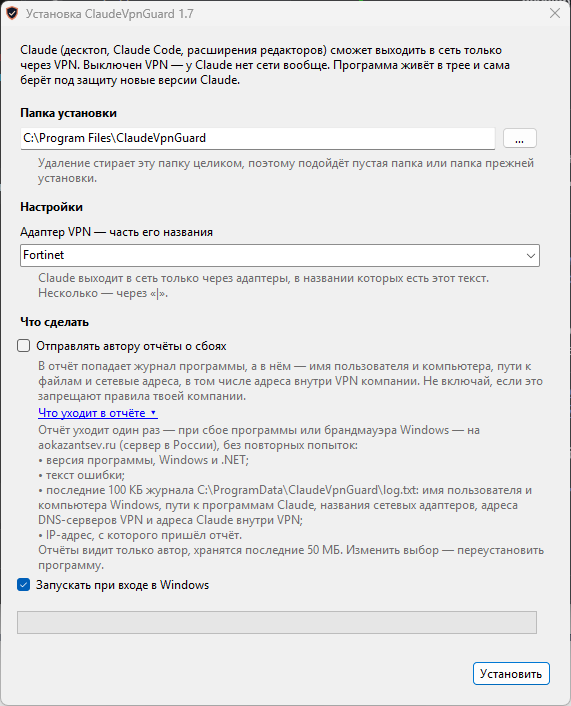
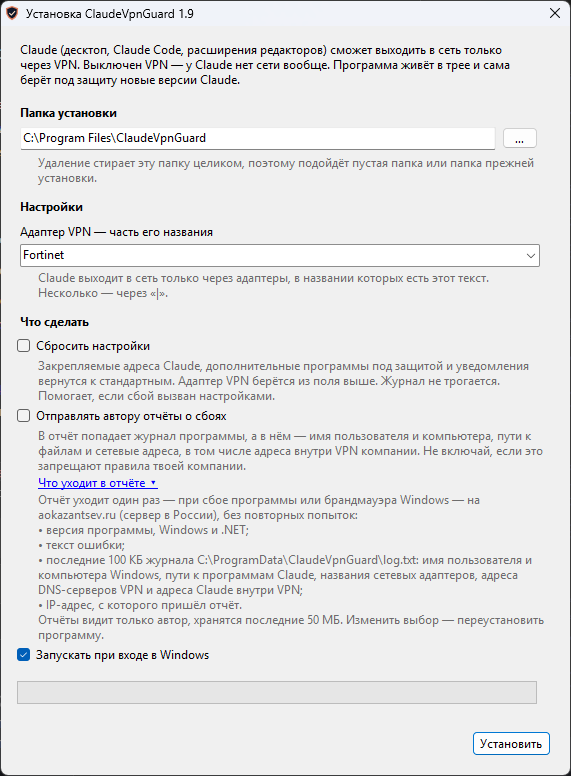
Проверка обновлений из трея с загрузкой установщика, галочка «Сбросить настройки» в установщике, версия 1.9

diff --git a/src/UpdateForm.cs b/src/UpdateForm.cs
@@ -1,0 +1,143 @@
+using System;
+using System.Diagnostics;
+using System.Drawing;
+using System.Threading;
+using System.Windows.Forms;
+
+namespace ClaudeVpnGuard
+{
+    internal sealed class UpdateForm : Form
+    {
+        private const int ContentWidth = 420;
+
+        private static UpdateForm openForm;
+
+        private readonly Label status = new Label();
+        private readonly TextBox pathBox = new TextBox();
+        private readonly FlowLayoutPanel fileButtons = new FlowLayoutPanel();
+        private string downloadedPath;
+
+        public static void ShowSingle()
+        {
+            if (openForm != null)
+            {
+                openForm.Activate();
+                return;
+            }
+            openForm = new UpdateForm();
+            openForm.FormClosed += (sender, e) => openForm = null;
+            openForm.Show();
+            openForm.Start();
+        }
+
+        private UpdateForm()
+        {
+            Text = "Обновление " + AppIdentity.Name;
+            FormBorderStyle = FormBorderStyle.FixedDialog;
+            MaximizeBox = false;
+            MinimizeBox = false;
+            StartPosition = FormStartPosition.CenterScreen;
+            AutoScaleMode = AutoScaleMode.Dpi;
+            Font = SystemFonts.MessageBoxFont;
+            AutoSize = true;
+            AutoSizeMode = AutoSizeMode.GrowAndShrink;
+            Icon = Icon.ExtractAssociatedIcon(Application.ExecutablePath);
+
+            var layout = new TableLayoutPanel { AutoSize = true, ColumnCount = 1, Padding = new Padding(16) };
+            Controls.Add(layout);
+
+            status.AutoSize = true;
+            status.MaximumSize = new Size(ContentWidth, 0);
+            status.Text = "Проверяю, есть ли версия новее " + AppIdentity.Version + "…";
+            layout.Controls.Add(status);
+
+            pathBox.ReadOnly = true;
+            pathBox.Width = ContentWidth;
+            pathBox.Margin = new Padding(3, 10, 3, 3);
+            pathBox.Visible = false;
+            layout.Controls.Add(pathBox);
+
+            fileButtons.AutoSize = true;
+            fileButtons.Visible = false;
+            fileButtons.Margin = new Padding(0, 6, 0, 0);
+            var openFolder = new Button { Text = "Открыть папку", AutoSize = true };
+            openFolder.Click += (sender, e) => ShowInExplorer(downloadedPath);
+            var copyPath = new Button { Text = "Скопировать путь", AutoSize = true };
+            copyPath.Click += (sender, e) => Clipboard.SetText(downloadedPath);
+            fileButtons.Controls.Add(openFolder);
+            fileButtons.Controls.Add(copyPath);
+            layout.Controls.Add(fileButtons);
+
+            var close = new Button { Text = "Закрыть", AutoSize = true, Anchor = AnchorStyles.Right, Margin = new Padding(3, 12, 3, 0) };
+            close.Click += (sender, e) => Close();
+            layout.Controls.Add(close);
+            CancelButton = close;
+        }
+
+        private void Start()
+        {
+            var worker = new Thread(Check) { IsBackground = true };
+            worker.Start();
+        }
+
+        private void Check()
+        {
+            try
+            {
+                UpdateRelease release = UpdateChecker.FetchLatest();
+                Version current = UpdateChecker.CurrentVersion;
+                AppLog.Append("update check: installed " + AppIdentity.Version + ", latest " + release.VersionText);
+                if (release.Version <= current)
+                {
+                    Report("Установлена последняя версия — " + AppIdentity.Version + ".", null);
+                    return;
+                }
+                Report("Есть версия " + release.VersionText + ", скачиваю установщик (" + (release.Size / 1024 / 1024.0).ToString("0.0") + " МБ)…", null);
+                string path = UpdateChecker.Download(release);
+                AppLog.Append("update downloaded: " + path);
+                Report("Скачана версия " + release.VersionText + ". Запусти установщик — он поставит её поверх текущей, настройки сохранятся. "
+                    + "Папка с установщиком открыта в Проводнике; если окно не появилось — кнопка «Открыть папку».", path);
+            }
+            catch (Exception error)
+            {
+                AppLog.Append("update check failed: " + error);
+                Report("Не удалось проверить обновление: " + error.Message
+                    + Environment.NewLine + "Последняя версия всегда есть на " + AppIdentity.GitHubUrl + "/releases/latest", null);
+            }
+        }
+
+        private void Report(string text, string path)
+        {
+            try
+            {
+                BeginInvoke(new Action(() => ShowResult(text, path)));
+            }
+            catch (InvalidOperationException)
+            {
+            }
+        }
+
+        private void ShowResult(string text, string path)
+        {
+            status.Text = text;
+            if (path == null) return;
+            downloadedPath = path;
+            pathBox.Text = path;
+            pathBox.Visible = true;
+            fileButtons.Visible = true;
+            ShowInExplorer(path);
+        }
+
+        private static void ShowInExplorer(string path)
+        {
+            try
+            {
+                Process.Start(new ProcessStartInfo("explorer.exe", "/select,\"" + path + "\"") { UseShellExecute = false });
+            }
+            catch (System.ComponentModel.Win32Exception error)
+            {
+                AppLog.Append("explorer failed: " + error.Message);
+            }
+        }
+    }
+}

diff --git a/src/UpdateChecker.cs b/src/UpdateChecker.cs
@@ -1,0 +1,106 @@
+using System;
+using System.Globalization;
+using System.IO;
+using System.Net;
+using System.Runtime.InteropServices;
+using System.Text;
+using System.Text.RegularExpressions;
+
+namespace ClaudeVpnGuard
+{
+    internal static class UpdateChecker
+    {
+        private const string GitHubPrefix = "https://github.com/";
+        private const string ApiPrefix = "https://api.github.com/repos/";
+        private const int RequestTimeoutMs = 15 * 1000;
+        private const int DownloadTimeoutMs = 120 * 1000;
+        private const int BufferSize = 81920;
+        private static readonly Guid DownloadsFolderId = new Guid("374DE290-123F-4565-9164-39C4925E467B");
+
+        public static Version CurrentVersion
+        {
+            get { return ParseVersion(AppIdentity.Version); }
+        }
+
+        public static Version ParseVersion(string text)
+        {
+            var parsed = new Version(text.Trim().TrimStart('v', 'V'));
+            return new Version(parsed.Major, parsed.Minor, Math.Max(0, parsed.Build), Math.Max(0, parsed.Revision));
+        }
+
+        public static UpdateRelease FetchLatest()
+        {
+            ServicePointManager.SecurityProtocol |= SecurityProtocolType.Tls12;
+            string url = ApiPrefix + AppIdentity.GitHubUrl.Substring(GitHubPrefix.Length) + "/releases/latest";
+            HttpWebRequest request = CreateRequest(url, RequestTimeoutMs);
+            request.Accept = "application/vnd.github+json";
+            string json;
+            using (var response = (HttpWebResponse)request.GetResponse())
+            using (var reader = new StreamReader(response.GetResponseStream(), Encoding.UTF8))
+            {
+                json = reader.ReadToEnd();
+            }
+            Match tag = Regex.Match(json, "\"tag_name\"\\s*:\\s*\"(v?[0-9][0-9.]*)\"");
+            if (!tag.Success) throw new InvalidDataException("в ответе GitHub нет номера версии");
+            string assetName = AppIdentity.Name + "Setup.exe";
+            Match asset = Regex.Match(json, "\"size\"\\s*:\\s*([0-9]+)[^{}]*?\"browser_download_url\"\\s*:\\s*\"([^\"]*/" + Regex.Escape(assetName) + ")\"");
+            if (!asset.Success) throw new InvalidDataException("в последнем релизе нет файла " + assetName);
+            return new UpdateRelease(tag.Groups[1].Value.TrimStart('v', 'V'), asset.Groups[2].Value,
+                long.Parse(asset.Groups[1].Value, CultureInfo.InvariantCulture));
+        }
+
+        public static string Download(UpdateRelease release)
+        {
+            string folder = DownloadsDirectory();
+            Directory.CreateDirectory(folder);
+            string target = Path.Combine(folder, AppIdentity.Name + "Setup-" + release.VersionText + ".exe");
+            string partial = target + ".part";
+            HttpWebRequest request = CreateRequest(release.DownloadUrl, DownloadTimeoutMs);
+            using (var response = (HttpWebResponse)request.GetResponse())
+            using (Stream source = response.GetResponseStream())
+            using (var output = new FileStream(partial, FileMode.Create, FileAccess.Write))
+            {
+                source.CopyTo(output, BufferSize);
+            }
+            if (release.Size > 0 && new FileInfo(partial).Length != release.Size)
+            {
+                File.Delete(partial);
+                throw new IOException("файл скачался не полностью");
+            }
+            if (File.Exists(target)) File.Delete(target);
+            File.Move(partial, target);
+            return target;
+        }
+
+        private static HttpWebRequest CreateRequest(string url, int timeoutMs)
+        {
+            ServicePointManager.SecurityProtocol |= SecurityProtocolType.Tls12;
+            var request = (HttpWebRequest)WebRequest.Create(url);
+            request.UserAgent = AppIdentity.Name + "/" + AppIdentity.Version;
+            request.Timeout = timeoutMs;
+            request.ReadWriteTimeout = timeoutMs;
+            return request;
+        }
+
+        private static string DownloadsDirectory()
+        {
+            Guid folderId = DownloadsFolderId;
+            IntPtr pathPointer;
+            if (SHGetKnownFolderPath(ref folderId, 0, IntPtr.Zero, out pathPointer) == 0)
+            {
+                try
+                {
+                    return Marshal.PtrToStringUni(pathPointer);
+                }
+                finally
+                {
+                    Marshal.FreeCoTaskMem(pathPointer);
+                }
+            }
+            return Path.Combine(Environment.GetFolderPath(Environment.SpecialFolder.UserProfile), "Downloads");
+        }
+
+        [DllImport("shell32.dll")]
+        private static extern int SHGetKnownFolderPath(ref Guid folderId, uint flags, IntPtr token, out IntPtr path);
+    }
+}

diff --git a/installer/setup/SetupProfile.cs b/installer/setup/SetupProfile.cs
@@ -12,6 +12,7 @@ namespace ClaudeVpnGuard
     {
         private const string DefaultVpnAdapter = "Fortinet";
         private const string VpnAdapterKey = "vpnAdapter";
+        private const string ResetSettingsKey = "resetSettings";
 
         public const string Intro =
             "Claude (десктоп, Claude Code, расширения редакторов) сможет выходить в сеть только через VPN. "
@@ -54,6 +55,14 @@ namespace ClaudeVpnGuard
             {
                 new SetupOption
                 {
+                    Key = ResetSettingsKey,
+                    Text = "Сбросить настройки",
+                    Hint = "Закрепляемые адреса Claude, дополнительные программы под защитой и уведомления вернутся к стандартным. "
+                        + "Адаптер VPN берётся из поля выше. Журнал не трогается. Помогает, если сбой вызван настройками.",
+                    Checked = false
+                },
+                new SetupOption
+                {
                     Key = CrashReportConsent.OptionKey,
                     Text = "Отправлять автору отчёты о сбоях",
                     Hint = "В отчёт попадает журнал программы, а в нём — имя пользователя и компьютера, пути к файлам и сетевые адреса, "
@@ -76,7 +85,9 @@ namespace ClaudeVpnGuard
         {
             report(5, "Папка настроек…");
             PrepareDataDirectory();
-            AppSettings settings = AppSettings.Load();
+            bool reset = request.Has(ResetSettingsKey);
+            SetupLog.Append("reset settings: " + reset);
+            AppSettings settings = reset ? new AppSettings() : AppSettings.Load();
             settings.VpnAdapters = AppSettings.ParseList(request.Value(VpnAdapterKey));
             if (!settings.TrySave()) throw new InvalidOperationException("Не удалось записать настройки в " + AppSettings.FilePath + ".");
             CrashReportConsent.Set(request.Has(CrashReportConsent.OptionKey));

diff --git a/src/TrayMenu.cs b/src/TrayMenu.cs
@@ -33,6 +33,7 @@ namespace ClaudeVpnGuard
             var startup = new ToolStripMenuItem("Запускать при входе в Windows") { Checked = startupEnabled };
             startup.Click += (s, a) => toggleStartup(!startup.Checked);
             menu.Items.Add(startup);
+            menu.Items.Add("Проверить обновление…", null, (s, a) => UpdateForm.ShowSingle());
             menu.Items.Add("О приложении…", null, (s, a) => AboutForm.ShowSingle());
             menu.Items.Add(new ToolStripSeparator());
             menu.Items.Add("Выход", null, (s, a) => exit());

diff --git a/src/UpdateRelease.cs b/src/UpdateRelease.cs
@@ -1,0 +1,20 @@
+using System;
+
+namespace ClaudeVpnGuard
+{
+    internal sealed class UpdateRelease
+    {
+        public readonly Version Version;
+        public readonly string VersionText;
+        public readonly string DownloadUrl;
+        public readonly long Size;
+
+        public UpdateRelease(string versionText, string downloadUrl, long size)
+        {
+            VersionText = versionText;
+            Version = UpdateChecker.ParseVersion(versionText);
+            DownloadUrl = downloadUrl;
+            Size = size;
+        }
+    }
+}

diff --git a/installer/setup/AssemblyInfo.cs b/installer/setup/AssemblyInfo.cs
@@ -6,7 +6,7 @@ using System.Runtime.InteropServices;
 [assembly: AssemblyCompany("aokazantsev")]
 [assembly: AssemblyProduct("ClaudeVpnGuard")]
 [assembly: AssemblyCopyright("Copyright (c) 2026 aokazantsev. MIT License")]
-[assembly: AssemblyVersion("1.8.0.0")]
-[assembly: AssemblyFileVersion("1.8.0.0")]
-[assembly: AssemblyInformationalVersion("1.8")]
+[assembly: AssemblyVersion("1.9.0.0")]
+[assembly: AssemblyFileVersion("1.9.0.0")]
+[assembly: AssemblyInformationalVersion("1.9")]
 [assembly: ComVisible(false)]

diff --git a/installer/uninstall/AssemblyInfo.cs b/installer/uninstall/AssemblyInfo.cs
@@ -6,7 +6,7 @@ using System.Runtime.InteropServices;
 [assembly: AssemblyCompany("aokazantsev")]
 [assembly: AssemblyProduct("ClaudeVpnGuard")]
 [assembly: AssemblyCopyright("Copyright (c) 2026 aokazantsev. MIT License")]
-[assembly: AssemblyVersion("1.8.0.0")]
-[assembly: AssemblyFileVersion("1.8.0.0")]
-[assembly: AssemblyInformationalVersion("1.8")]
+[assembly: AssemblyVersion("1.9.0.0")]
+[assembly: AssemblyFileVersion("1.9.0.0")]
+[assembly: AssemblyInformationalVersion("1.9")]
 [assembly: ComVisible(false)]

diff --git a/src/AssemblyInfo.cs b/src/AssemblyInfo.cs
@@ -6,7 +6,7 @@ using System.Runtime.InteropServices;
 [assembly: AssemblyCompany("aokazantsev")]
 [assembly: AssemblyProduct("ClaudeVpnGuard")]
 [assembly: AssemblyCopyright("Copyright (c) 2026 aokazantsev. MIT License")]
-[assembly: AssemblyVersion("1.8.0.0")]
-[assembly: AssemblyFileVersion("1.8.0.0")]
-[assembly: AssemblyInformationalVersion("1.8")]
+[assembly: AssemblyVersion("1.9.0.0")]
+[assembly: AssemblyFileVersion("1.9.0.0")]
+[assembly: AssemblyInformationalVersion("1.9")]
 [assembly: ComVisible(false)]

diff --git a/src/AppIdentity.cs b/src/AppIdentity.cs
@@ -6,7 +6,7 @@ namespace ClaudeVpnGuard
     internal static class AppIdentity
     {
         public const string Name = "ClaudeVpnGuard";
-        public const string Version = "1.8";
+        public const string Version = "1.9";
         public const string ExecutableName = "ClaudeVpnGuard.exe";
         public const string ProcessName = "ClaudeVpnGuard";
         public const string UninstallerName = "Uninstall.exe";

diff --git a/README.md b/README.md
@@ -142,6 +142,13 @@ VPN, и пускает его в сеть только после успешно
 - **Как изменить выбор.** Переустановить программу с галочкой или без неё. Деинсталлятор удаляет
   согласие вместе с остальными данными.
 
+## Обновление
+
+Трей → «Проверить обновление…». Есть версия новее — установщик скачивается в «Загрузки» и
+открывается в Проводнике; путь к нему и кнопка «Открыть папку» остаются в окне. Запусти его — новая
+версия встанет поверх текущей, удалять старую не нужно, настройки сохранятся. Если сбой вызван
+настройками, в установщике есть галочка «Сбросить настройки».
+
 ## Удаление
 
 «Параметры → Приложения → ClaudeVpnGuard → Удалить» или `Uninstall.exe` в папке программы.

diff --git a/CHANGELOG.md b/CHANGELOG.md
@@ -2,6 +2,14 @@
 
 Актуальная версия — в [Releases](../../releases/latest).
 
+## 1.9 — 06.10.2026
+
+- В меню трея пункт «Проверить обновление…»: программа сверяется с последним релизом на GitHub и, если
+  есть версия новее, скачивает установщик в «Загрузки» и открывает его в Проводнике. Окно с путём и
+  кнопкой «Открыть папку» остаётся, если Проводник не появился. Установщик ставит новую версию поверх
+  текущей, настройки сохраняются.
+- В установщике галочка «Сбросить настройки» (по умолчанию выключена) — если сбой вызван настройками.
+
 ## 1.8 — 06.10.2026
 
 - Меню трея больше не может зависнуть на проверке автозапуска.
